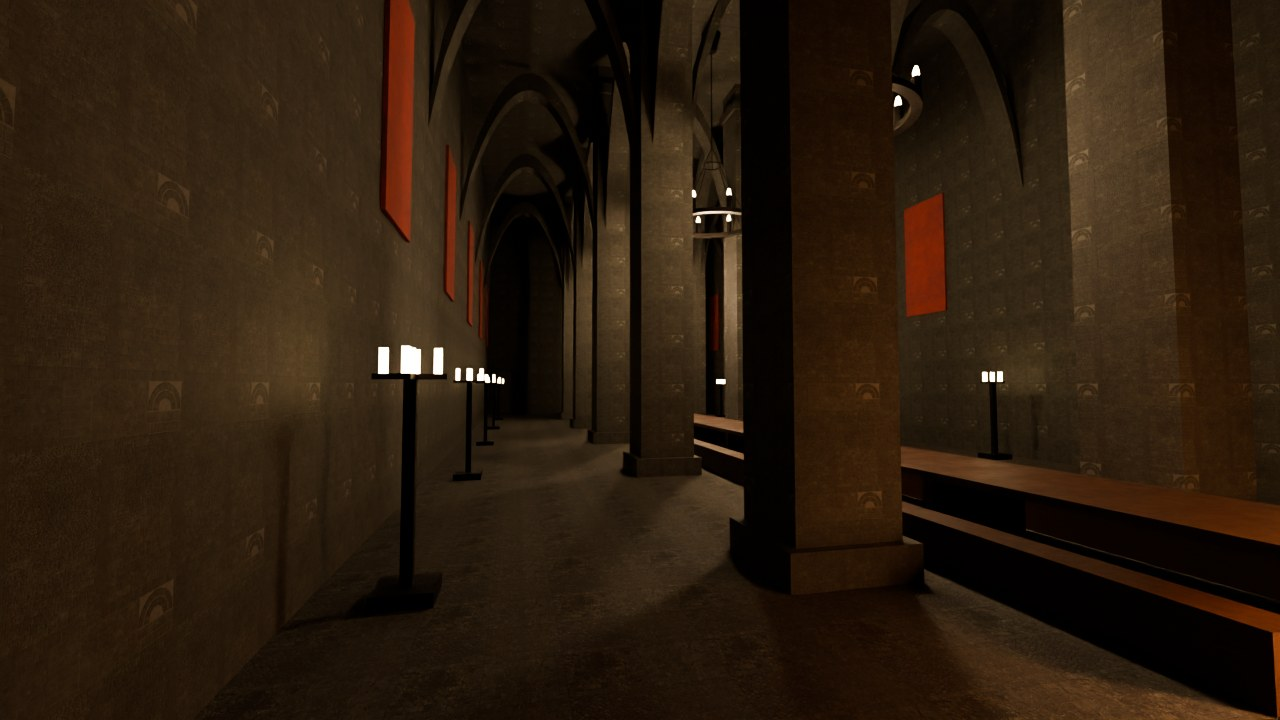
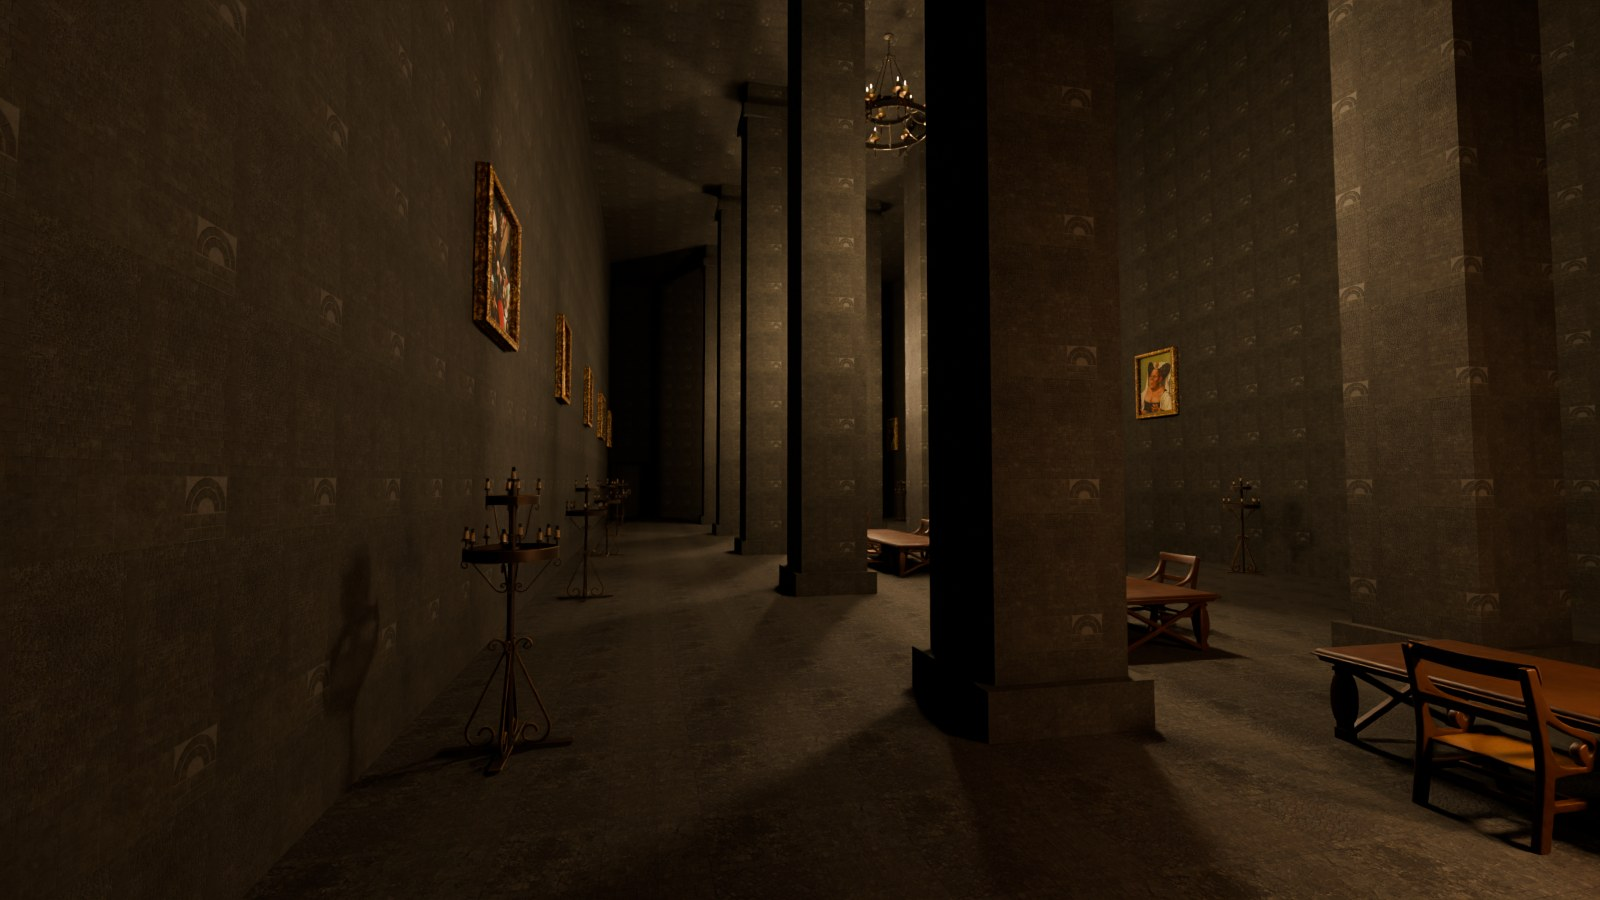
Gothic Valley : rendus du château et de la bibliothèque avec les props des packs
Claude-Session: https://claude.ai/code/session_01Mf6TZUzCfLxggMx2y17NrB

diff --git a/GothicValley/pack/BUILD_LOG.md b/GothicValley/pack/BUILD_LOG.md
@@ -174,7 +174,7 @@ Les salles creusées sous le terrain ont les dimensions du cahier. Celles logée
 - Règle : le mobilier et les objets viennent uniquement des packs fournis. Les props que j'avais fabriqués (trône, tables, bancs, chaises, candélabres, bannières, tapis, autel, croix, bancs d'église, sarcophages, tonneaux, cuves, étagères, lit, râteliers, cheminées, chaudron, chaînes, paille, braseros, lanternes, torches, nervures de voûte) sont retirés du château et de la maison des chasseurs. Restent fabriqués : l'architecture et les pièces que le jeu fait bouger (pont-levis, vantaux, panneau secret, grille de la crypte, porte du tunnel, armoire secrète, portes de la maison, barreaux des cellules). Les lumières restent.
 - 76 props préparés (`prep_props.py`, `props_defs.py`) : mis à l'échelle en mètres, face avant vers +X, origine au sol. 240 sont placés dans le château et la maison des chasseurs (`Content/Props/...`, matériaux `MI_PR_*`).
 - Trône « Dark Gothic Medieval Throne » : le socle et les bougies posées par terre devant, à gauche, sont retirés. Tapis sombres à motifs rouges (« Medieval Rugs Kit ») dans le château, tapis clairs (« Medieval Rug Pack ») dans la maison des chasseurs. Le grand crucifix de fer forgé (« Church Cross ») est dans la chapelle du château, le Christ de bronze (« The Crucifixion ») sur le mur de la grande salle des chasseurs. Les lustres et les candélabres des deux packs remplacent ceux que j'avais fabriqués ; les tableaux (« Free Medieval Paintings Pack ») sont sur les murs des salles doublées.
-- « Medieval Furniture Pack » : ses 32 objets sont séparés et nommés (four, lit, banc à dossier, buffet, coffre, tables, chaise, tabouret, étagères, outils, lampe murale, porte-torche, trappe, peau d'ours...). Dix de ses textures sont arrivées abîmées (blocs de 8 × 8 pixels mélangés) : peau d'ours, tonneaux, draps, nappe, rideaux, tableaux et leurs cadres, lampes, flammes. Ces matériaux sont pour l'instant d'une couleur unie ; les flammes plates sont retirées (la lumière fait la flamme), ainsi que le porte-serviettes et les deux tableaux de ce pack.
+- « Medieval Furniture Pack » : ses 32 objets sont séparés et nommés (four, lit, banc à dossier, buffet, coffre, tables, chaise, tabouret, étagères, outils, lampe murale, porte-torche, trappe, peau d'ours...). Treize de ses fichiers de textures sont arrivés abîmés (blocs de 8 × 8 pixels mélangés) : peau d'ours, tonneaux, draps, nappe, rideaux, tableaux et leurs cadres, lampes, flammes. Ces matériaux sont pour l'instant d'une couleur unie ; les flammes plates sont retirées (la lumière fait la flamme), ainsi que le porte-serviettes et les deux tableaux de ce pack.
 - « Medieval Mini Scene » ne contient que des textures, sans fichier 3D : rien n'est placé.
 - « Medieval Wooden Shack 04 » est préparé et exporté (`Content/Environment/Shack`) ; il sera placé avec la ville.
 
